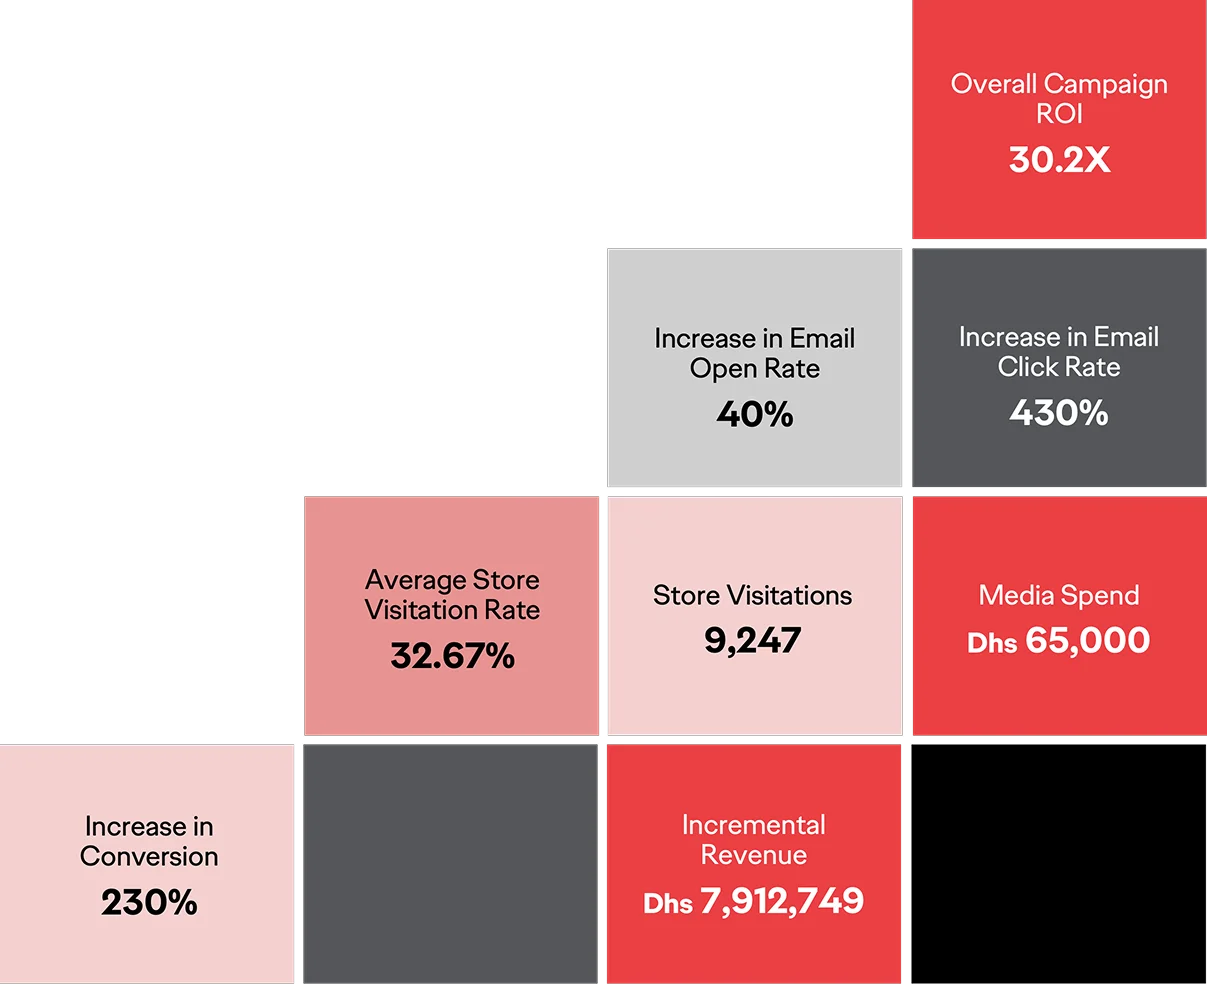
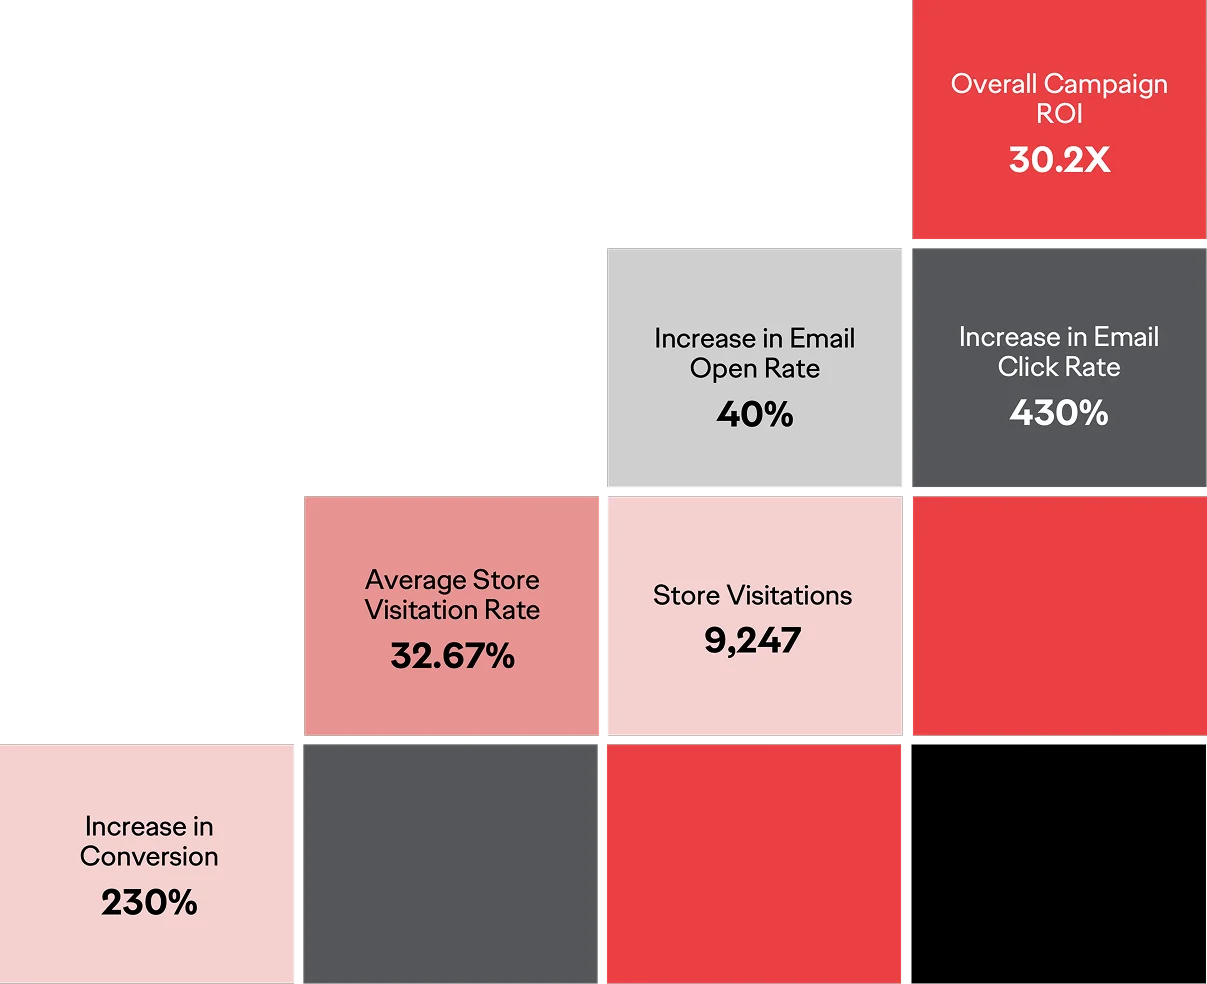
fix: hardened password gate security and resolved global scroll-snap routing bug

Changed region(s): [[0.5211, 0.8232, 0.7357, 0.9451], [0.797, 0.5793, 0.9503, 0.6707]]

diff --git a/src/app/[lang]/work/[slug]/page.tsx b/src/app/[lang]/work/[slug]/page.tsx
@@ -3,8 +3,8 @@ import { cookies } from "next/headers";
 import { getDictionary } from "@/dictionaries/dictionary";
 import ProjectSubNav from "@/components/ProjectSubNav";
 import PasswordGate from "@/components/PasswordGate";
+import ScrollToTop from "@/components/ScrollToTop";
 
-// 1. Import our clean Presenter layout and its Data interface
 import CaseStudyLayout, { ProjectData } from "@/components/CaseStudyLayout";
 
 export default async function ProjectDetail({
@@ -14,36 +14,35 @@ export default async function ProjectDetail({
 }) {
   const { lang, slug } = await params;
 
-  // Fetch the localization dictionary
+  // 1. Fetch data
   const dict = await getDictionary(lang as "en" | "ar" | "fr");
-
-  // Cast the dictionary data to our ProjectData array structure
   const portfolio = dict.portfolio as unknown as ProjectData[];
   const project = portfolio.find((p) => p.slug === slug);
 
-  // Trigger Next.js 404 page if project doesn't exist or isn't fully expanded
+  // 2. Validate project exists
   if (!project || !project.expanded) {
     return notFound();
   }
 
-  // 2. THE HARDENED SECURITY CHECK
-  // We check the cookie store to see if the user has already unlocked this specific project
+  // 3. Security Check
   const cookieStore = await cookies();
   const currentCookieValue = cookieStore.get(`unlocked_${slug}`)?.value;
 
+  // Hardened check to support both JSON booleans and stringified booleans
+  const isProtected = project.protected === true || project.protected === "true";
+
   const expectedToken =
-    project.protected && project.password
-      ? Buffer.from(`${slug}-${project.password}-portfolio-secret`).toString(
-          "base64",
-        )
+    isProtected && project.password
+      ? Buffer.from(`${slug}-${project.password}-portfolio-secret`).toString("base64")
       : null;
 
   const isUnlocked = currentCookieValue === expectedToken;
 
-  // If the project is protected and the user hasn't unlocked it, render the PasswordGate
-  if (project.protected && !isUnlocked) {
+  // 4. The Locked State
+  if (isProtected && !isUnlocked) {
     return (
       <main className="min-h-screen bg-surface-primary flex flex-col w-full -mt-8 md:-mt-12 relative z-40">
+        <ScrollToTop />
         <ProjectSubNav client={project.client} id={project.id} lang={lang} />
         <div className="flex-1 flex items-center justify-center">
           <PasswordGate slug={slug} lang={lang} />
@@ -52,19 +51,17 @@ export default async function ProjectDetail({
     );
   }
 
-  // 3. NEXT PROJECT CALCULATION (Endless Loop Engine)
+  // 5. The Unlocked State (Endless Loop Engine)
   const currentIndex = portfolio.findIndex((p) => p.slug === slug);
-
-  // If we are at the end of the portfolio array, loop back to the first project [0].
-  // Otherwise, grab the next project in the array.
   const nextProject =
     currentIndex >= 0 && currentIndex < portfolio.length - 1
       ? portfolio[currentIndex + 1]
       : portfolio[0];
 
-  // 4. INJECT DATA INTO THE PRESENTER
-  // The server has finished its job; hand off the safe data to the client UI.
   return (
-    <CaseStudyLayout project={project} nextProject={nextProject} lang={lang} />
+    <>
+      <ScrollToTop />
+      <CaseStudyLayout project={project} nextProject={nextProject} lang={lang} />
+    </>
   );
 }

diff --git a/src/components/PasswordGate.tsx b/src/components/PasswordGate.tsx
@@ -1,6 +1,6 @@
 "use client";
 
-import { useState, useTransition } from "react";
+import { useState, useTransition, useLayoutEffect } from "react";
 import { useRouter } from "next/navigation";
 import { unlockProject } from "@/app/actions/unlock";
 
@@ -16,6 +16,36 @@ export default function PasswordGate({
   const [isPending, startTransition] = useTransition();
   const router = useRouter();
 
+  // THE NUCLEAR OPTION: useLayoutEffect fires before the screen paints
+  useLayoutEffect(() => {
+    // 1. Tell the browser to ignore Next.js scroll memory
+    if ("scrollRestoration" in window.history) {
+      window.history.scrollRestoration = "manual";
+    }
+
+    // 2. Temporarily strip any global smooth-scrolling classes
+    const html = document.documentElement;
+    html.style.scrollBehavior = "auto";
+    
+    // 3. Lock the body so the viewport CANNOT scroll down
+    document.body.style.overflow = "hidden";
+    document.body.style.position = "fixed";
+    document.body.style.top = "0";
+    document.body.style.width = "100%";
+
+    // 4. Force the coordinates to absolute zero
+    window.scrollTo({ top: 0, left: 0, behavior: "instant" });
+
+    // Cleanup: When the user unlocks the project, release the lock so they can scroll the case study
+    return () => {
+      document.body.style.overflow = "";
+      document.body.style.position = "";
+      document.body.style.top = "";
+      document.body.style.width = "";
+      html.style.scrollBehavior = "";
+    };
+  }, []);
+
   const handleSubmit = (e: React.FormEvent) => {
     e.preventDefault();
     setError("");
@@ -23,7 +53,6 @@ export default function PasswordGate({
     startTransition(async () => {
       const res = await unlockProject(slug, password, lang);
       if (res.success) {
-        // If successful, refresh the current route to re-run the server component and reveal the case study
         router.refresh();
       } else {
         setError(res.error || "Access denied");
@@ -32,7 +61,11 @@ export default function PasswordGate({
   };
 
   return (
-    <div className="flex flex-col items-center justify-center h-[70vh] w-full max-w-md mx-auto text-center gap-8 px-6">
+    // Added a massive z-index and absolute absolute-zeroing inline styles as a failsafe
+    <div 
+      style={{ zIndex: 99999, minHeight: '100svh' }} 
+      className="flex flex-col items-center justify-center w-full max-w-md mx-auto text-center gap-8 px-6 absolute top-0 left-1/2 -translate-x-1/2 bg-surface-primary"
+    >
       <div className="flex flex-col gap-2">
         <h2 className="text-h2 font-bold text-content-primary">
           Protected Asset

diff --git a/src/components/ScrollRestorer.tsx b/src/components/ScrollRestorer.tsx
@@ -1,34 +1,46 @@
 "use client";
 
 import { useEffect } from "react";
+import { usePathname } from "next/navigation";
 
 export default function ScrollRestorer() {
+  const pathname = usePathname(); // e.g., "/en", "/en/work/project-1"
+
   useEffect(() => {
     const savedScroll = sessionStorage.getItem("portfolio-scroll");
 
-    if (savedScroll) {
-      // 1. Target the element controlling the smooth scrolling
-      const wrapper = document.querySelector(".scroll-smooth");
+    // 1. Identify if the current route is a root homepage
+    const isHomepage = 
+      pathname === "/" || 
+      pathname === "/en" || 
+      pathname === "/fr" || 
+      pathname === "/ar";
 
-      // 2. Temporarily strip the CSS smooth-scroll rule
+    // 2. THE FIX: If we have a saved scroll but we are entering a Case Study, 
+    // abort the restoration and wipe the memory so it doesn't trap the user.
+    if (savedScroll && !isHomepage) {
+      sessionStorage.removeItem("portfolio-scroll");
+      return; 
+    }
+
+    // 3. Normal behavior: Only restore if we are actually on the homepage
+    if (savedScroll && isHomepage) {
+      const wrapper = document.querySelector(".scroll-smooth");
       if (wrapper) wrapper.classList.remove("scroll-smooth");
 
-      // 3. Force an instant, mathematical snap to the exact pixel
       window.scrollTo({
         top: parseInt(savedScroll, 10),
         left: 0,
-        behavior: "instant", // or "auto" as a fallback
+        behavior: "instant", 
       });
 
-      // 4. Clear the memory
       sessionStorage.removeItem("portfolio-scroll");
 
-      // 5. Re-enable smooth scrolling after the browser has painted the jump
       requestAnimationFrame(() => {
         if (wrapper) wrapper.classList.add("scroll-smooth");
       });
     }
-  }, []);
+  }, [pathname]);
 
   return null;
 }

diff --git a/src/components/ScrollDebugger.tsx b/src/components/ScrollDebugger.tsx
@@ -1,0 +1,45 @@
+"use client";
+
+import { useEffect } from "react";
+
+export default function ScrollDebugger() {
+  useEffect(() => {
+    // We run this 500ms after mount to let Next.js finish all its routing quirks
+    const timer = setTimeout(() => {
+      console.log("--- 🕵 DEVBRIDGE SCROLL DEBUGGER INITIATED ---");
+
+      // 1. Check the native browser window
+      console.log("Window Scroll Y:", window.scrollY);
+      console.log("Window Inner Height:", window.innerHeight);
+      console.log("Body Scroll Height:", document.body.scrollHeight);
+
+      // 2. Scan every single element on the page to find the rogue scroll container
+      const allElements = document.querySelectorAll("*");
+      const scrollingElements: Element[] = [];
+
+      allElements.forEach((el) => {
+        if (el.scrollTop > 0) {
+          scrollingElements.push(el);
+          console.log(
+            "🔴 FOUND SCROLLING ELEMENT:", 
+            el.tagName, 
+            el.className, 
+            "| ScrollTop:", 
+            el.scrollTop
+          );
+        }
+      });
+
+      // 3. Diagnose Flexbox / Overflow collapse
+      if (scrollingElements.length === 0 && window.scrollY === 0) {
+        console.log("⚠ WARNING: Nothing is physically scrolled. This means you have a CSS 'overflow: hidden' or Flexbox layout collapse trapping the UI.");
+      }
+
+      console.log("-------------------------------------------------");
+    }, 500);
+
+    return () => clearTimeout(timer);
+  }, []);
+
+  return null;
+}

diff --git a/src/app/[lang]/page.tsx b/src/app/[lang]/page.tsx
@@ -5,6 +5,7 @@ import AboutSection from "@/components/AboutSection";
 import Partnerships from "@/components/Partnerships";
 import ContactSection from "@/components/ContactSection";
 import ScrollRestorer from "@/components/ScrollRestorer";
+import HomepageSnapper from "@/components/HomepageSnapper"; // THE FIX: Import the snapper
 
 export default async function Home({
   params,
@@ -15,11 +16,14 @@ export default async function Home({
   const dict = await getDictionary(lang as "en" | "ar" | "fr");
 
   return (
+    // THE FIX: We revert back to a standard Fragment. 
+    // The native browser window is now in control of scrolling again!
     <>
       <ScrollRestorer />
+      <HomepageSnapper /> {/* Mounts the global CSS hijack */}
+      
       <HeroSection dict={dict.hero} />
       <AboutSection dict={dict.about} />
-      {/* Injected the lang prop to resolve the TypeScript error */}
       <WorkSection dict={dict.portfolio} lang={lang} />
       <Partnerships dict={dict.partnerships} />
       <ContactSection dict={dict.contact} />

diff --git a/src/components/ScrollToTop.tsx b/src/components/ScrollToTop.tsx
@@ -1,0 +1,30 @@
+"use client";
+
+import { useEffect } from "react";
+
+export default function ScrollToTop() {
+  useEffect(() => {
+    const forceScrollToTop = () => {
+      // 1. Scroll the native browser window
+      window.scrollTo({ top: 0, left: 0, behavior: "instant" });
+      document.documentElement.scrollTop = 0;
+      document.body.scrollTop = 0;
+      
+      // 2. THE FIX: Physically scroll your custom smooth-scroll wrapper if it exists
+      const wrapper = document.querySelector(".scroll-smooth");
+      if (wrapper) {
+        wrapper.scrollTop = 0;
+      }
+    };
+
+    // Fire immediately on mount
+    forceScrollToTop();
+    
+    // Fire again 50ms later to override the Next.js router's delayed scroll memory
+    const timer = setTimeout(forceScrollToTop, 50);
+
+    return () => clearTimeout(timer);
+  }, []);
+
+  return null;
+}

diff --git a/src/components/HomepageSnapper.tsx b/src/components/HomepageSnapper.tsx
@@ -1,0 +1,18 @@
+"use client";
+
+import { useEffect } from "react";
+
+export default function HomepageSnapper() {
+  useEffect(() => {
+    // 1. When the homepage mounts, inject Tailwind's snap classes into the global HTML tag
+    document.documentElement.classList.add("snap-y", "snap-mandatory");
+
+    // 2. CLEANUP: The millisecond the user navigates away (e.g., to a case study),
+    // strip the snap classes away so it doesn't cause the scroll-trap bug on the Password Gate!
+    return () => {
+      document.documentElement.classList.remove("snap-y", "snap-mandatory");
+    };
+  }, []);
+
+  return null;
+}

diff --git a/src/app/globals.css b/src/app/globals.css
@@ -5,7 +5,6 @@
 @tailwind utilities;
 
 html {
-  scroll-snap-type: y mandatory;
   scroll-behavior: smooth;
 }
 
